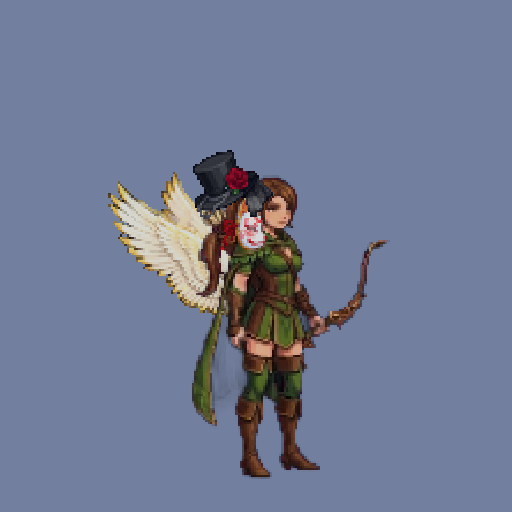
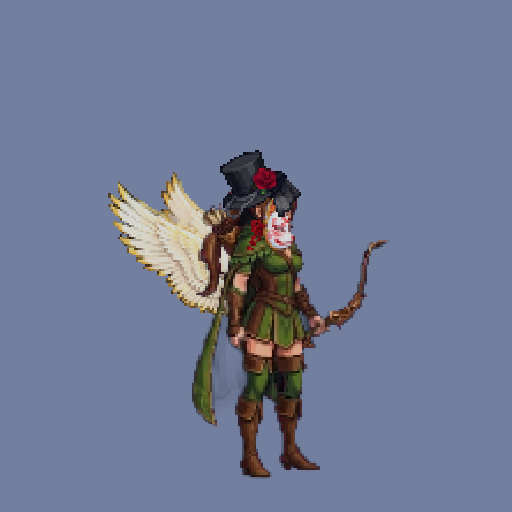
Paperdoll: hat/mask centred on the real head (Mage/Archer), mask no longer floats in front of the face

Changed region(s): [[0.375, 0.2812, 0.5938, 0.5]]

diff --git a/Assets/Scripts/Gameplay/Paperdoll2D.cs b/Assets/Scripts/Gameplay/Paperdoll2D.cs
@@ -172,7 +172,8 @@ namespace AdventureKing.Gameplay
         }
 
         /// <summary>Sprite pixels the added hat / mask sits lower than the measured head top (the Mage's tall hat and the Archer's feather count as head top).</summary>
-        private static float HatDrop(string hero) => hero == "Mage" ? 26f : hero == "Archer" ? 20f : 0f;
+        private static float HatDrop(string hero) => hero == "Mage" ? 17f : hero == "Archer" ? 20f : 0f;
+        private static float HeadDx(string hero) => hero == "Mage" ? 14f : hero == "Archer" ? 12f : 0f;
         private static float MaskDrop(string hero) => hero == "Mage" ? 6f : hero == "Archer" ? 9f : 0f;
 
         private static int Index(string spriteName) => int.TryParse(spriteName.Substring(spriteName.LastIndexOf('_') + 1), out int i) ? i : 0;
@@ -249,7 +250,9 @@ namespace AdventureKing.Gameplay
                         if (v.frames == null || v.frames.Length == 0 || !FashionCatalog2D.TryAnchor(hero, clip, frame, out BodyAnchor a)) { l.Renderer.sprite = null; break; }
                         Vector2 p = kv.Key == PaperSlot.Mask ? a.Face : kv.Key == PaperSlot.Wings ? a.Shoulder : a.Head;
                         p.y -= kv.Key == PaperSlot.Hat ? HatDrop(hero) : kv.Key == PaperSlot.Mask ? MaskDrop(hero) : kv.Key == PaperSlot.Wings ? 20f : 0f;
-                        if (kv.Key == PaperSlot.Wings) p.x += 8f;   // the wing root sits on the back, not behind the head
+                        if (kv.Key == PaperSlot.Hat) p.x += HeadDx(hero);
+                        else if (kv.Key == PaperSlot.Mask) p.x += hero == "Mage" ? 1f : HeadDx(hero);  // the measured head x follows the baked hat's bent tip / feather, behind the real head
+                        if (kv.Key == PaperSlot.Wings) p.x += 8f;  // the wing root sits on the back, not behind the head
                         t.localPosition = new Vector3((p.x - pivot.x) / ppu, (p.y - pivot.y) / ppu + liftLocal, 0f);
                         float fps = kv.Key == PaperSlot.Wings ? (clip == "Run" ? v.fps * 1.5f : v.fps) : 1f;
                         l.Renderer.sprite = v.frames[v.frames.Length > 1 ? Mathf.FloorToInt(Time.time * fps) % v.frames.Length : 0];
